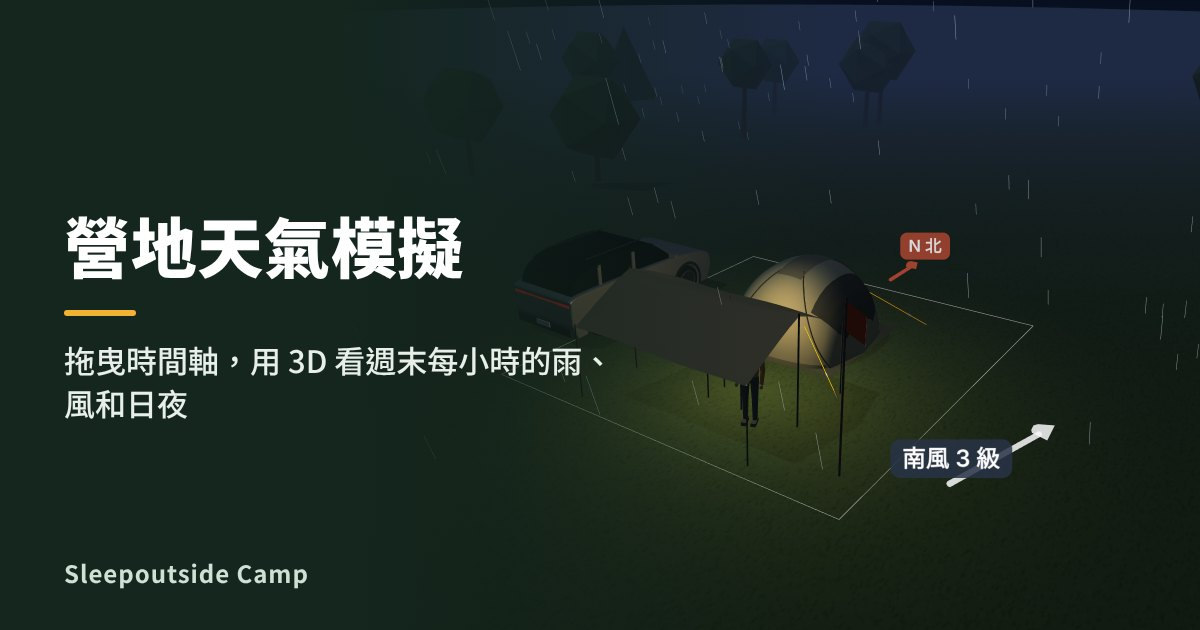
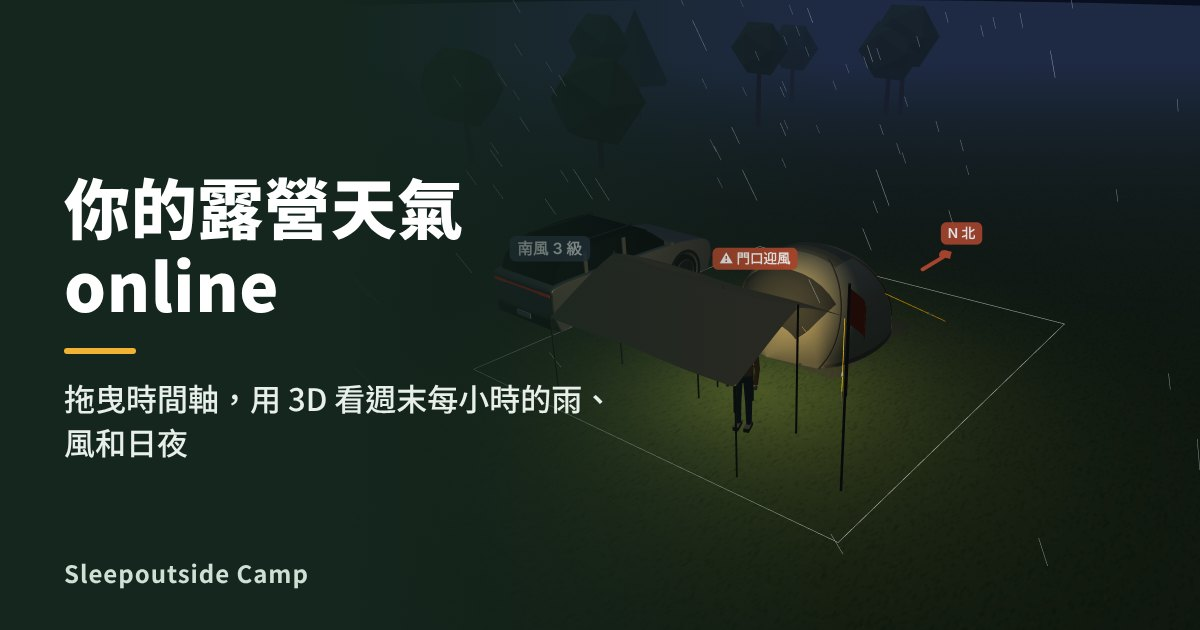
天氣頁標題改為「你的露營天氣online」，導覽卡片、分享預覽圖、影片字幕同步
Claude-Session: https://claude.ai/code/session_014sz8NWXRvMUHDC7oyemVk4

diff --git a/weather.html b/weather.html
@@ -9,14 +9,14 @@
 <meta property="og:type" content="website">
 <meta property="og:site_name" content="Sleepoutside Camp">
 <meta property="og:locale" content="zh_TW">
-<meta property="og:title" content="營地天氣模擬｜用 3D 看週末每小時的天氣">
+<meta property="og:title" content="你的露營天氣online｜用 3D 看週末每小時的天氣">
 <meta property="og:description" content="選一個營地，拖曳時間軸，用 3D 看這個週末每個小時的雨、風、日夜和霧。">
 <meta property="og:url" content="https://sleepoutside.github.io/tent-planner/weather.html">
 <meta property="og:image" content="https://sleepoutside.github.io/tent-planner/og-weather.jpg">
 <meta property="og:image:width" content="1200">
 <meta property="og:image:height" content="630">
 <meta name="twitter:card" content="summary_large_image">
-<title>營地天氣模擬｜用 3D 看週末每小時的天氣</title>
+<title>你的露營天氣online｜用 3D 看週末每小時的天氣</title>
 <style>
   :root{--paper:#f4f0e6;--panel:#fbf9f3;--ink:#22302a;--muted:#66736b;--line:#d9d3c3;--accent:#2f6b4f;--accent-soft:#e2eee6;--warn:#b8472a;--warn-soft:#f8e4dc;--amber:#a86a12;--amber-soft:#fbefd2;--rain:#2f7fb8;color-scheme:light}
   *{box-sizing:border-box}
@@ -150,7 +150,7 @@
 </head>
 <body>
 <header>
-  <h1>營地天氣模擬</h1>
+  <h1>你的露營天氣online</h1>
   <p>選一個營地，拖曳時間軸，看這個週末每個小時的雨、風、日夜和霧會是什麼樣子。</p>
   <nav class="navcards" aria-label="其他頁面"><a href="index.html">搭設模擬<small>放不放得下</small></a><a href="types.html">帳型介紹<small>3D 與優缺點</small></a><a href="tarps.html">天幕搭法<small>八種搭法</small></a><a href="fire.html">焚火安全<small>距離與風向</small></a><a href="sleep.html">帳內睡鋪<small>睡得下幾人</small></a></nav>
 </header>
@@ -1217,7 +1217,7 @@ function recFrame(){
   g.fillStyle='#b8472a'; g.fillRect(x0+CUR*cw,y1-bh-4*k,Math.max(2,cw),bh+8*k);
   /* credit */
   g.font='700 '+Math.round(20*k)+'px '+F; g.textAlign='right'; g.fillStyle='rgba(255,255,255,.92)'; g.shadowColor='rgba(0,0,0,.6)'; g.shadowBlur=6*k;
-  g.fillText('營地天氣模擬',W-24*k,H-66*k-bh); g.font='600 '+Math.round(16*k)+'px '+F; g.fillText('依預報的情境示意 · 資料 Open-Meteo / 中央氣象署',W-24*k,H-66*k-bh-26*k);
+  g.fillText('你的露營天氣online',W-24*k,H-66*k-bh); g.font='600 '+Math.round(16*k)+'px '+F; g.fillText('依預報的情境示意 · 資料 Open-Meteo / 中央氣象署',W-24*k,H-66*k-bh-26*k);
   g.shadowBlur=0; g.textAlign='left';
 }
 function recFrameV(R,h){
@@ -1247,7 +1247,7 @@ function recFrameV(R,h){
     var v=q.miss?0:q.mm>=.1?Math.max(.12,Math.sqrt(q.mm/mx)):q.maybe?.2:0; if(v){ g.fillStyle=q.mm>=.3?'#2f7fb8':q.mm>=.1?'rgba(47,127,184,.45)':'rgba(47,127,184,.3)'; g.fillRect(x+.5,yb-bh*v,cw-1,bh*v); }
     if(q.k.slice(11,13)==='00'||i===0){ t(x+4,yb+36,'週'+WDN[kDow(q.k)],26,'#66736b',700); g.fillStyle='#b9b2a0'; g.fillRect(x,yb-bh,1.5,bh); } });
   g.fillStyle='#b8472a'; g.fillRect(x0+CUR*cw-1,yb-bh-8,Math.max(4,cw+2),bh+16);
-  t(W/2,1920-34,'營地天氣模擬 · 依預報的情境示意 · 資料 Open-Meteo / 中央氣象署',24,'#66736b',600,'center'); g.textAlign='left';
+  t(W/2,1920-34,'你的露營天氣online · 依預報的情境示意 · 資料 Open-Meteo / 中央氣象署',24,'#66736b',600,'center'); g.textAlign='left';
 }
 function recStop(save){
   var R=REC; if(!R) return; REC=null; clearInterval(R.t); canvas.style.objectFit=''; if(renderer.getPixelRatio()!==R.pr) renderer.setPixelRatio(R.pr); resize(); if(HRS[CUR]) buildWind(HRS[CUR]); var b=$('rec'); b.classList.remove('on'); b.textContent='🎬 錄成影片'; $('play').disabled=false;

diff --git a/tools/tpl/weather.html b/tools/tpl/weather.html
@@ -9,14 +9,14 @@
 <meta property="og:type" content="website">
 <meta property="og:site_name" content="Sleepoutside Camp">
 <meta property="og:locale" content="zh_TW">
-<meta property="og:title" content="營地天氣模擬｜用 3D 看週末每小時的天氣">
+<meta property="og:title" content="你的露營天氣online｜用 3D 看週末每小時的天氣">
 <meta property="og:description" content="選一個營地，拖曳時間軸，用 3D 看這個週末每個小時的雨、風、日夜和霧。">
 <meta property="og:url" content="https://sleepoutside.github.io/tent-planner/weather.html">
 <meta property="og:image" content="https://sleepoutside.github.io/tent-planner/og-weather.jpg">
 <meta property="og:image:width" content="1200">
 <meta property="og:image:height" content="630">
 <meta name="twitter:card" content="summary_large_image">
-<title>營地天氣模擬｜用 3D 看週末每小時的天氣</title>
+<title>你的露營天氣online｜用 3D 看週末每小時的天氣</title>
 <style>
   :root{--paper:#f4f0e6;--panel:#fbf9f3;--ink:#22302a;--muted:#66736b;--line:#d9d3c3;--accent:#2f6b4f;--accent-soft:#e2eee6;--warn:#b8472a;--warn-soft:#f8e4dc;--amber:#a86a12;--amber-soft:#fbefd2;--rain:#2f7fb8;color-scheme:light}
   *{box-sizing:border-box}
@@ -145,7 +145,7 @@
 </head>
 <body>
 <header>
-  <h1>營地天氣模擬</h1>
+  <h1>你的露營天氣online</h1>
   <p>選一個營地，拖曳時間軸，看這個週末每個小時的雨、風、日夜和霧會是什麼樣子。</p>
   /*NAV*/
 </header>
@@ -713,7 +713,7 @@ function recFrame(){
   g.fillStyle='#b8472a'; g.fillRect(x0+CUR*cw,y1-bh-4*k,Math.max(2,cw),bh+8*k);
   /* credit */
   g.font='700 '+Math.round(20*k)+'px '+F; g.textAlign='right'; g.fillStyle='rgba(255,255,255,.92)'; g.shadowColor='rgba(0,0,0,.6)'; g.shadowBlur=6*k;
-  g.fillText('營地天氣模擬',W-24*k,H-66*k-bh); g.font='600 '+Math.round(16*k)+'px '+F; g.fillText('依預報的情境示意 · 資料 Open-Meteo / 中央氣象署',W-24*k,H-66*k-bh-26*k);
+  g.fillText('你的露營天氣online',W-24*k,H-66*k-bh); g.font='600 '+Math.round(16*k)+'px '+F; g.fillText('依預報的情境示意 · 資料 Open-Meteo / 中央氣象署',W-24*k,H-66*k-bh-26*k);
   g.shadowBlur=0; g.textAlign='left';
 }
 function recFrameV(R,h){
@@ -743,7 +743,7 @@ function recFrameV(R,h){
     var v=q.miss?0:q.mm>=.1?Math.max(.12,Math.sqrt(q.mm/mx)):q.maybe?.2:0; if(v){ g.fillStyle=q.mm>=.3?'#2f7fb8':q.mm>=.1?'rgba(47,127,184,.45)':'rgba(47,127,184,.3)'; g.fillRect(x+.5,yb-bh*v,cw-1,bh*v); }
     if(q.k.slice(11,13)==='00'||i===0){ t(x+4,yb+36,'週'+WDN[kDow(q.k)],26,'#66736b',700); g.fillStyle='#b9b2a0'; g.fillRect(x,yb-bh,1.5,bh); } });
   g.fillStyle='#b8472a'; g.fillRect(x0+CUR*cw-1,yb-bh-8,Math.max(4,cw+2),bh+16);
-  t(W/2,1920-34,'營地天氣模擬 · 依預報的情境示意 · 資料 Open-Meteo / 中央氣象署',24,'#66736b',600,'center'); g.textAlign='left';
+  t(W/2,1920-34,'你的露營天氣online · 依預報的情境示意 · 資料 Open-Meteo / 中央氣象署',24,'#66736b',600,'center'); g.textAlign='left';
 }
 function recStop(save){
   var R=REC; if(!R) return; REC=null; clearInterval(R.t); canvas.style.objectFit=''; if(renderer.getPixelRatio()!==R.pr) renderer.setPixelRatio(R.pr); resize(); if(HRS[CUR]) buildWind(HRS[CUR]); var b=$('rec'); b.classList.remove('on'); b.textContent='🎬 錄成影片'; $('play').disabled=false;

diff --git a/tarps.html b/tarps.html
@@ -76,7 +76,7 @@
 <header>
   <h1>天幕搭法 3D 介紹</h1>
   <p>同一張 4 × 4 公尺的方形天幕，換個搭法就是不同的遮蔽；最後附上蝶形天幕作對照。拖曳畫面可以轉著看。</p>
-  <nav class="navcards" aria-label="其他頁面"><a href="index.html">搭設模擬<small>放不放得下</small></a><a href="types.html">帳型介紹<small>3D 與優缺點</small></a><a href="fire.html">焚火安全<small>距離與風向</small></a><a href="sleep.html">帳內睡鋪<small>睡得下幾人</small></a><a href="weather.html">營地天氣<small>週末 3D 天氣</small></a></nav>
+  <nav class="navcards" aria-label="其他頁面"><a href="index.html">搭設模擬<small>放不放得下</small></a><a href="types.html">帳型介紹<small>3D 與優缺點</small></a><a href="fire.html">焚火安全<small>距離與風向</small></a><a href="sleep.html">帳內睡鋪<small>睡得下幾人</small></a><a href="weather.html">露營天氣online<small>週末 3D 天氣</small></a></nav>
 </header>
 <main>
   <section class="view" aria-label="3D 示意">

diff --git a/index.html b/index.html
@@ -176,7 +176,7 @@
 
   <aside class="panel left" aria-label="帳篷">
     <button type="button" class="sheet-x">收合 ▾</button>
-    <nav class="navcards" aria-label="其他頁面"><a href="types.html">帳型介紹<small>3D 與優缺點</small></a><a href="tarps.html">天幕搭法<small>八種搭法</small></a><a href="fire.html">焚火安全<small>距離與風向</small></a><a href="sleep.html">帳內睡鋪<small>睡得下幾人</small></a><a href="weather.html">營地天氣<small>週末 3D 天氣</small></a></nav>
+    <nav class="navcards" aria-label="其他頁面"><a href="types.html">帳型介紹<small>3D 與優缺點</small></a><a href="tarps.html">天幕搭法<small>八種搭法</small></a><a href="fire.html">焚火安全<small>距離與風向</small></a><a href="sleep.html">帳內睡鋪<small>睡得下幾人</small></a><a href="weather.html">露營天氣online<small>週末 3D 天氣</small></a></nav>
     <div class="single-only">
     <h1>帳篷</h1>
     <p class="sub">選一頂帳篷，尺寸為原廠公布的搭設外尺寸。</p>

diff --git a/sleep.html b/sleep.html
@@ -78,7 +78,7 @@
 <header>
   <h1>帳內睡鋪模擬</h1>
   <p>選一頂帳，把床墊一張張放進內帳，拖一拖、轉一轉，看看到底睡得下幾個人。</p>
-  <nav class="navcards" aria-label="其他頁面"><a href="index.html">搭設模擬<small>放不放得下</small></a><a href="types.html">帳型介紹<small>3D 與優缺點</small></a><a href="tarps.html">天幕搭法<small>八種搭法</small></a><a href="fire.html">焚火安全<small>距離與風向</small></a><a href="weather.html">營地天氣<small>週末 3D 天氣</small></a></nav>
+  <nav class="navcards" aria-label="其他頁面"><a href="index.html">搭設模擬<small>放不放得下</small></a><a href="types.html">帳型介紹<small>3D 與優缺點</small></a><a href="tarps.html">天幕搭法<small>八種搭法</small></a><a href="fire.html">焚火安全<small>距離與風向</small></a><a href="weather.html">露營天氣online<small>週末 3D 天氣</small></a></nav>
 </header>
 <main>
   <section class="view" aria-label="3D 模擬">

diff --git a/fire.html b/fire.html
@@ -99,7 +99,7 @@
 <header>
   <h1>焚火安全模擬</h1>
   <p>換焚火台、換燃料、調風向，再把帳篷和天幕拖來拖去，看看怎麼擺才安心。</p>
-  <nav class="navcards" aria-label="其他頁面"><a href="index.html">搭設模擬<small>放不放得下</small></a><a href="types.html">帳型介紹<small>3D 與優缺點</small></a><a href="tarps.html">天幕搭法<small>八種搭法</small></a><a href="sleep.html">帳內睡鋪<small>睡得下幾人</small></a><a href="weather.html">營地天氣<small>週末 3D 天氣</small></a></nav>
+  <nav class="navcards" aria-label="其他頁面"><a href="index.html">搭設模擬<small>放不放得下</small></a><a href="types.html">帳型介紹<small>3D 與優缺點</small></a><a href="tarps.html">天幕搭法<small>八種搭法</small></a><a href="sleep.html">帳內睡鋪<small>睡得下幾人</small></a><a href="weather.html">露營天氣online<small>週末 3D 天氣</small></a></nav>
 </header>
 <main>
   <section class="view" aria-label="3D 模擬">

diff --git a/types.html b/types.html
@@ -85,7 +85,7 @@
 <header>
   <h1>帳篷型式 3D 介紹</h1>
   <p>十一種常見帳型和兩種天幕的概念造型與優缺點，拖曳畫面可以轉著看。</p>
-  <nav class="navcards" aria-label="其他頁面"><a href="index.html">搭設模擬<small>放不放得下</small></a><a href="tarps.html">天幕搭法<small>八種搭法</small></a><a href="fire.html">焚火安全<small>距離與風向</small></a><a href="sleep.html">帳內睡鋪<small>睡得下幾人</small></a><a href="weather.html">營地天氣<small>週末 3D 天氣</small></a></nav>
+  <nav class="navcards" aria-label="其他頁面"><a href="index.html">搭設模擬<small>放不放得下</small></a><a href="tarps.html">天幕搭法<small>八種搭法</small></a><a href="fire.html">焚火安全<small>距離與風向</small></a><a href="sleep.html">帳內睡鋪<small>睡得下幾人</small></a><a href="weather.html">露營天氣online<small>週末 3D 天氣</small></a></nav>
 </header>
 <main>
   <section class="view" aria-label="3D 展示">

diff --git a/tools/build.py b/tools/build.py
@@ -38,7 +38,7 @@ NAVCSS = '''  .navcards{display:grid;grid-template-columns:repeat(5,minmax(0,1fr
   .navcards a:hover small{color:#e2eee6}
   @media (max-width: 880px){ .navcards{flex:1 1 100%;margin-top:4px;gap:6px} .navcards a{font-size:13px} .navcards a small{font-size:10px} }'''
 CARDS = [('index', '搭設模擬', '放不放得下'), ('types', '帳型介紹', '3D 與優缺點'), ('tarps', '天幕搭法', '八種搭法'),
-         ('fire', '焚火安全', '距離與風向'), ('sleep', '帳內睡鋪', '睡得下幾人'), ('weather', '營地天氣', '週末 3D 天氣')]
+         ('fire', '焚火安全', '距離與風向'), ('sleep', '帳內睡鋪', '睡得下幾人'), ('weather', '露營天氣online', '週末 3D 天氣')]
 def nav(me):
     """Navigation cards to every page except `me`. index.html keeps its own hand-written copy."""
     return ('<nav class="navcards" aria-label="其他頁面">'

diff --git a/tools/make_og.py b/tools/make_og.py
@@ -16,7 +16,7 @@ PAGES = {'index': ('帳篷 × 營位', '3D 搭設模擬', '選帳、選營位，
          'tarps': ('天幕搭法', '3D 介紹', '同一張天幕的八種搭法'),
          'fire': ('焚火安全模擬', '', '焚火台、燃料、風向與安全距離'),
          'sleep': ('帳內睡鋪模擬', '', '這頂帳到底睡得下幾個人'),
-         'weather': ('營地天氣模擬', '', '拖曳時間軸，用 3D 看週末每小時的雨、風和日夜')}
+         'weather': ('你的露營天氣online', '', '拖曳時間軸，用 3D 看週末每小時的雨、風和日夜')}
 WIDE = '.stage > *:not(canvas){display:none!important} .stage{height:820px!important}'
 BOX = ('.stage > *:not(canvas){display:none!important} .stage{position:fixed!important;left:0;top:0;'
        'width:860px!important;height:630px!important;z-index:999;border-radius:0!important;border:0!important}')

diff --git a/README.md b/README.md
@@ -13,7 +13,7 @@
 - 營區環境：草地、森林、河邊、海邊、高山；天氣／時段：晴天、多雲、雨天、起霧、黃昏、夜晚
 - 焚火安全模擬頁（fire.html）：六種焚火台、五種燃料，可調風向風力、拖曳帳篷與天幕，依 3 m／4.5 m 安全圈即時判斷，附檢查清單與資料來源
 - 焚火台物件：搭設模擬的單一營位模式可加入焚火台，顯示 3 m／4.5 m 安全圈，帳篷或天幕太近會提醒
-- 營地天氣模擬頁（weather.html）：搜尋營地或點熱門露營鄉鎮，拖曳時間軸看週五中午到週日中午每小時的天氣；3D 場景依預報呈現雨量（含部分模型有雨）、風向風力（天幕、旗子、樹會擺動）、太陽位置與日夜、霧與夜間低溫，並給出雨、強風、低溫、起霧、日落與收帳的提醒；可複製指定時間的分享連結。資料與「勇者露營天氣查詢」共用。在搭設模擬的「分享」按「☔ 看這個配置的週末天氣」，可把自己的單一營位配置（帳篷、第 2 頂帳篷、天幕、車、人、桌椅燈、焚火台）帶進天氣場景，設定門口朝向後，判斷門口迎風、斜雨會不會淋到桌椅與門口、午後西曬、焚火台火星飄向，並建議最背風的門口方位；夜晚有月亮與月相，接近露點時帳篷表面會出現結露水珠。「🎬 錄成影片」會從頭播完整個週末（每小時 0.5 秒），把 3D 畫面連同營地、時間、天氣字幕與迷你時間軸（不含網址）錄成影片（支援的瀏覽器存成 MP4，否則 WebM）；可選橫式 16:9，或直式 9:16（1080 × 1920，上半部 3D、下半部天氣資訊面板，適合手機全螢幕與限時動態），手機上直接開分享選單
+- 你的露營天氣online頁（weather.html）：搜尋營地或點熱門露營鄉鎮，拖曳時間軸看週五中午到週日中午每小時的天氣；3D 場景依預報呈現雨量（含部分模型有雨）、風向風力（天幕、旗子、樹會擺動）、太陽位置與日夜、霧與夜間低溫，並給出雨、強風、低溫、起霧、日落與收帳的提醒；可複製指定時間的分享連結。資料與「勇者露營天氣查詢」共用。在搭設模擬的「分享」按「☔ 看這個配置的週末天氣」，可把自己的單一營位配置（帳篷、第 2 頂帳篷、天幕、車、人、桌椅燈、焚火台）帶進天氣場景，設定門口朝向後，判斷門口迎風、斜雨會不會淋到桌椅與門口、午後西曬、焚火台火星飄向，並建議最背風的門口方位；夜晚有月亮與月相，接近露點時帳篷表面會出現結露水珠。「🎬 錄成影片」會從頭播完整個週末（每小時 0.5 秒），把 3D 畫面連同營地、時間、天氣字幕與迷你時間軸（不含網址）錄成影片（支援的瀏覽器存成 MP4，否則 WebM）；可選橫式 16:9，或直式 9:16（1080 × 1920，上半部 3D、下半部天氣資訊面板，適合手機全螢幕與限時動態），手機上直接開分享選單
 - 帳內睡鋪模擬頁（sleep.html）：選帳篷，放入不同尺寸的床墊（含自訂），可拖曳、轉向、自動排列，超出內帳或重疊會標紅
 - 帳內睡鋪：選床墊尺寸與數量，檢查第 1 頂帳篷的內帳排不排得下（有原廠內帳尺寸就用原廠，否則依帳型估算，可自行修改）
 - 單一營位分享連結：把整個配置（帳篷、天幕、車、人、寵物、桌椅、焚火台、睡鋪、環境）編進網址，對方打開即還原

diff --git a/HANDOFF.md b/HANDOFF.md
@@ -29,7 +29,7 @@
 | `tarps.html` | 天幕搭法 3D 介紹（8 種）。**產生檔** |
 | `fire.html` | 焚火安全模擬。**產生檔** |
 | `sleep.html` | 帳內睡鋪模擬。**產生檔** |
-| `weather.html` | 營地天氣模擬。**產生檔** |
+| `weather.html` | 你的露營天氣online。**產生檔** |
 | `og-*.jpg` | 各頁的分享預覽圖（1200×630） |
 | `tools/build.py` | 由 `index.html` + 範本產生上面三個頁面 |
 | `tools/tpl/types_head.html`、`types_tail.js` | 帳型頁範本（HTML/CSS/資料，與尾段程式） |
@@ -96,7 +96,7 @@ git add -A && git commit -m "..." && git push origin main && git push origin mai
 - **tarps.html**：`PITCHES` 每筆是一種搭法，用 `net`（布面控制點，公尺）、`poles`、`ropes`、`pegs` 描述，`buildPitch()` 依此畫出布面、營柱、營繩。**新增搭法只要在 `PITCHES` 加一筆資料**，不用改造型程式。`net` 可以有兩排以上（蝶形天幕用四排，兩端各一排重合的點當尖端）；`car:[x,z]` 會放一台車。這頁目前沒有「帶進搭設模擬」的按鈕。
 - **fire.html**：六種焚火台、五種燃料、風向風力；判斷邏輯在 `judge()`。
 - **sleep.html**：內帳範圍由 `sleepArea()`（複製自 `index.html`）決定；床墊可混搭、拖曳、轉向，`autoArrange()` 自動排列。
-- **weather.html**（營地天氣模擬，2026-11-19 第一階段）：
+- **weather.html**（你的露營天氣online，2026-11-19 第一階段）：
   - **資料都來自另一個 repo `sleepoutside/hero-camping-map`（勇者露營天氣查詢）**，同網域直接讀：`places.json`（熱點與營地清單，營地索引與天氣站的 `?camp=` 一致）、`cwa.json`（氣象署鄉鎮預報）、`om_hot.json`（熱點的 Open-Meteo 預報，含多模型雨量，由那邊的 GitHub Actions 排程每 6 小時更新）。在 `*.github.io` 用相對路徑 `/hero-camping-map/`，其他地方（含本機 file://）用完整網址。
   - 熱點優先用 `om_hot.json`（12 小時內且有風向欄位才用）；營地或資料過期時即時向 Open-Meteo 抓單點每小時資料，多模型雨量另外抓、晚到也沒關係。
   - 時間軸：週五 12:00 到週日 12:00（已過的部分從現在開始），一律用台灣時間的字串鍵 `YYYY-MM-DDTHH:00`（`keyMs`／`msKey`），不依賴瀏覽器時區。
